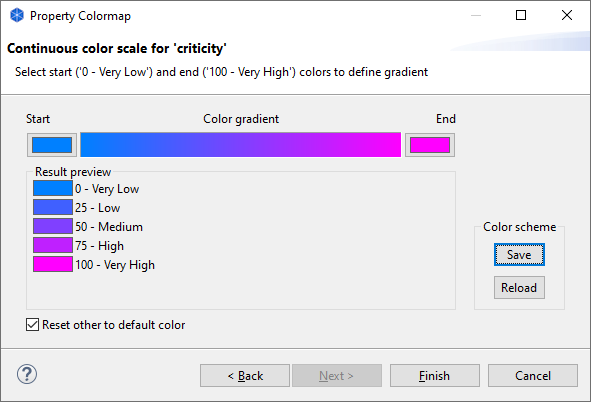
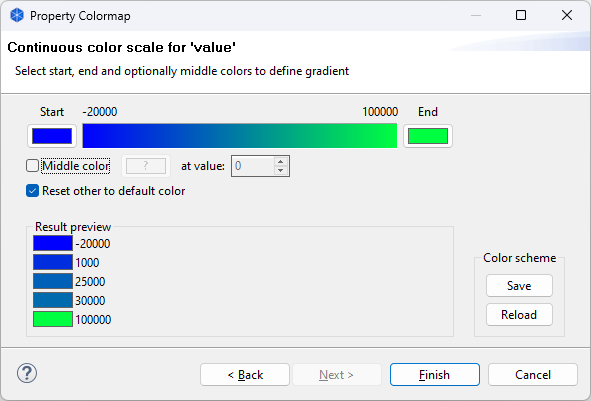
Updated doc

diff --git a/scripts/lib/colormap/UI.js b/scripts/lib/colormap/UI.js
@@ -630,7 +630,11 @@ const pageContinuousColor = new ColorMapWizardPage("pageContinuousColor", {
                 wizardUI.gradientLabel.setImage( imageRegistry.getGradientImage(scale.relativeEdges(), bounds) );
                 wizardUI.middlePosition.setEnabled(scale.isMiddleColorEnabled());
                 const factor = Math.pow(10, wizardUI.middlePosition.getDigits());
-                wizardUI.middlePosition.setSelection(scale.isMiddleColorEnabled() ? Math.round(scale.middle.textAsNumber * factor) : 0); 
+                const pos = scale.isMiddleColorEnabled() ? Math.round(scale.middle.textAsNumber * factor) : 0;
+                if (wizardUI.middlePosition.getSelection() != pos)
+                    // change the value only if there is a diff (ie: definition of position by clicking on gradient)
+                    // otherwise reselect in box the full content, and so cannot edit digit per digit in spinner
+                    wizardUI.middlePosition.setSelection(pos); 
             } else {
                 log.error(`Scale type invalid: ${scale.name}`)
             }
@@ -650,7 +654,7 @@ const pageContinuousColor = new ColorMapWizardPage("pageContinuousColor", {
                 // forcing the scale type if necessary
                 cModel.colormap.scaleClass = ContinuousScale;
                 const scale = cModel.colormap.scale;
-                // F                                         ollowing if Just to avoid TS validation errors (implicit cast)
+                // Just to avoid TS validation errors (implicit cast)
                 if (scale instanceof ContinuousScale) {
                     // recalculating colors and selection
                     scale.resetEdges();

diff --git a/doc/Colormap wizard.md b/doc/Colormap wizard.md
@@ -24,7 +24,7 @@ lib/
 
 The **Wizard** is organized in 3 steps. As with any wizard, it is possible to go back and forth between pages with `< Back` and `Next >` buttons. `Cancel` will stop the Wizard. `Finish` will execute the colorization, if all necessary choices are made.
 
-The **Reapply** scripts will apply directly the colormap saved default color scheme to the view (resp. model views). See scripts [description](Colormap%20reapply.md).
+The **Reapply** scripts will apply directly the colormap saved default color scheme to the view (resp. model views). See scripts [documentation](Colormap%20reapply.md).
 
 ### 1) Property selection step
 
@@ -54,26 +54,28 @@ A property label which color has not been defined yet is represented by ![Unknow
 
 ![Categorical](./img/Category%20scheme%20colors.png)
 
-The `Reset other to default color` checkbox will instruct to reset to default color all visual elements in the view which don't have the property or a property label color defined.
+The `Reset other to default color` checkbox will instruct to reset to Archi default color all visual elements which don't have the property or a property label color defined.
 
-The `Color scheme` section is explained below. If a default color scheme exists for the property, it will be applied.
+The `Color scheme` section is explained below. If a saved color scheme exists for the property, it will be applied by default.
 
 
 ### 3.b) Continuous color scheme 
 
 In this scheme, you define the colors for the lowest and highest numerical values of the property labels. A proportional gradient color scheme is applied to each label numerical value.
 
-It's possible to set a middle color in the gradient. The position of the color can be defined by clicking on the gradient or editing the value in the spinner box.
+![Continuous](./img/Continuous%20scheme%20colors.png)
+
+It's possible to set a middle color in the gradient. The position of the color can be defined by clicking directly on the gradient or editing the value in the spinner box.
+
+![Continuous](./img/Continuous%20scheme%20colors%20middle%20color.png)
 
 A color which has not been defined yet is represented by ![Unknown color](./img/UnknownColor.png).
 
-![Continuous](./img/Continuous%20scheme%20colors.png)
-
 ### Creating or reloading color scheme
 
-In step 3), for both color schemes, you can save the current color definition as the default (and the one to reapply per default for the property, see [reapply scripts](Colormap%20reapply.md)) using the `Save` button. `Reload` will overwrite the current label selection color scheme with the saved one.
+In step 3), for both color schemes, you can save the current color definition as the default definition for the selected property (and the one to reapply, see [reapply scripts](Colormap%20reapply.md)) using the `Save` button. `Reload` will overwrite the current label selection color scheme with the saved one.
 
-**NB**: the [reapply scripts](Colormap%20reapply.md) is based on the name of the property. It will reapply the color scheme definition **as saved**, which may be not the one last manually applied but not saved.
+**NB**: the [reapply scripts](Colormap%20reapply.md) is based on the name of the property. It will reapply the **saved** color scheme definition, which may be not the one manually defined and applied but not saved.
 
 ![saving and loading scheme](./img/Default%20Color.png)
 
@@ -83,11 +85,13 @@ If execution is asked (button `Finish` pressed), defined color scheme will be ap
 
 A legend will be created. If a previous legend was created, it will be replaced at the same position, otherwise it will be positioned by default in the top left corner of the current view.
 
-#### Example for categorical scale
+NB: The legend format is slightly different between categorical (lexical sort, space between colors, border) and continuous scale (numeric sort, no space, no border)
+
+### Example for categorical scale
 
 ![Categorical result](./img/Category%20Scheme%20Result.png)
 
-#### Example for continuous scale
+### Example for continuous scale
 
 ![Continuous result](./img/Continuous%20color%20output.png)
 

diff --git a/doc/Colormap reapply.md b/doc/Colormap reapply.md
@@ -6,7 +6,7 @@
 
 ## Installation
 
-These scripts require `Colormap\Wizard.ajs` and associated javascript libraries.
+These scripts require `Colormap/Wizard.ajs` and associated javascript libraries in `lib/colormap/*.js` and `lib/misc.js`
 
 See section installation in [Colormap wizard](Colormap%20wizard.md).
 
@@ -18,7 +18,7 @@ When a color scheme has been applied to a view, the colormap **Wizard** saves th
 
 It is so possible for the user to reapply the color scheme associated to this selected property without going thru the **Wizard**, by launching the script `Colormap/Reapply to selected view.ajs`. 
 
-For instance, when some property values has been changed in model, and you want to recolorize the associated visual element according to the property values.
+For instance, when some values for this property has been changed in model, and you want to recolorize the associated visual elements with the new/updated property values.
 
 This script will automatically defer to the **Wizard** in the following cases:
 
@@ -36,4 +36,4 @@ The script will stop at the 1st view which cannot be recolorize automatically, a
 
 ## Nota Bene
 
-If you observe the applied color scheme seems different from the previously visible on the view, it's because it was modified manually after saving. The color scheme reapplied by this script is based on the one **saved**, not the latest applied.
+If you observe the applied color scheme seems different from the previously visible on the view, it's because the oen applied is different from the one saved. The color scheme reapplied by this script is based on the definition **saved**, not the latest applied.

diff --git a/README.md b/README.md
@@ -24,9 +24,9 @@ Custom organic grown developed or adapted by yours truly, without any ChatGpt in
 
 For development, allow code completion in VSCode for Archimate jArchi api. To be used in conjunction with [`jsconfig.json`](https://code.visualstudio.com/docs/languages/jsconfig).
 
-## 1. [Colormap wizard.ajs](doc/Colormap%20wizard.md), [Colormap reapply.ajs](doc/Colormap%20reapply.md)
+## 1. [Colormap/Wizard.ajs](doc/Colormap%20wizard.md), [Colormap/Reapply on selected view.ajs](doc/Colormap%20reapply.md), [Colormap/Reapply on model.ajs](doc/Colormap%20reapply.md), 
 
-A property heatmap Wizard, with either a discrete categorical color scale or a continuous (gradient) numeric color scale. 
+A property heatmap Wizard, with either a discrete categorical color scale or a continuous (gradient) numeric color scale. And helper scripts to reapply the color scheme previously defined by the wizard on a view or all views of a model.
 
 See [User's Guide](doc/Colormap%20wizard.md) for details and installation.
 
